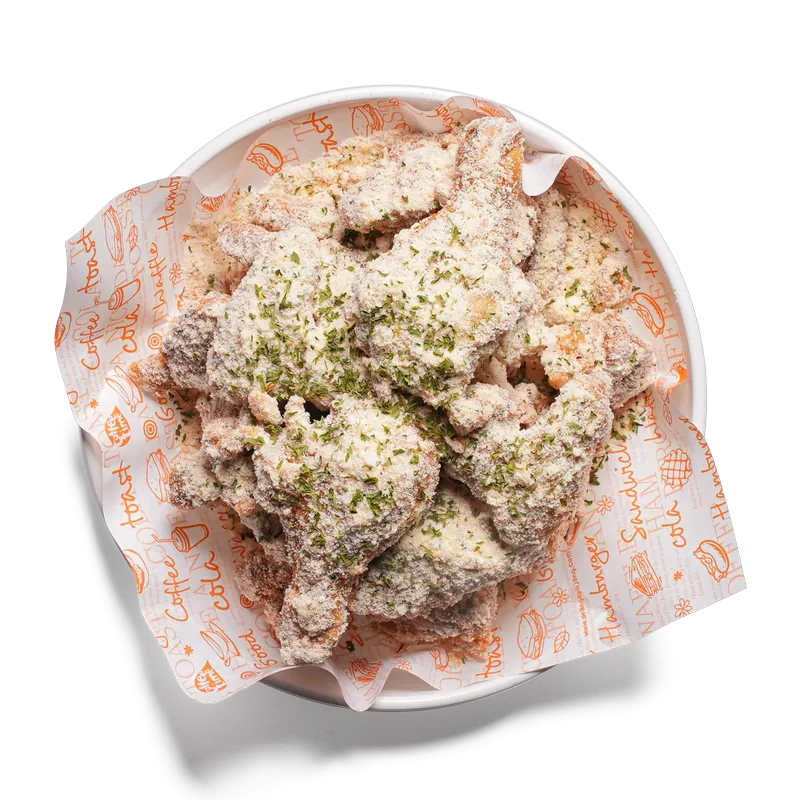
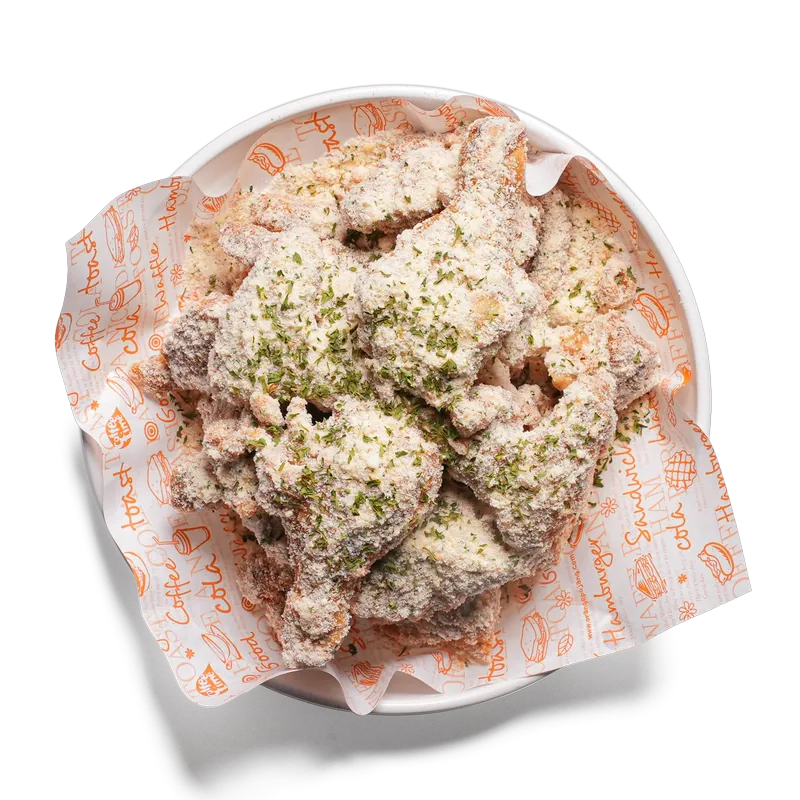
가마보꼬가 아래로 밀리던 문제 — 잔티끌 필터를 비율 기준으로 교체
- 원인: 냄비에 꽂힌 나무젓가락이 행당 2~3px 밖에 안 되는데 고정 임계(3px)를
  간신히 통과해 기준 영역 위쪽이 늘어났고, 그만큼 냄비가 아래로 밀렸다.
- 행/열 픽셀 수가 최대치의 3% 미만이면 제외하도록 변경.
  전체 56건 중 가마보꼬 1건만 바뀌고 나머지는 영향 없음(도마 손잡이 등 보존).
- 젓가락처럼 기준 영역 밖으로 삐져나온 부분이 캔버스를 벗어나지 않도록
  상한도 추가 — 냄비는 정중앙(401/400), 젓가락은 잘리지 않는다.

Changed region(s): [[0.0625, 0.125, 0.9375, 0.9688]]

diff --git a/import_menus.py b/import_menus.py
@@ -102,16 +102,18 @@ def _mass_bbox(alpha, lo=0.02, hi=0.98, min_a=200):
             min(w, int((x1 + 1) * sc)), min(h, int((y1 + 1) * sc)))
 
 
-def _body_bbox(alpha, th=250, min_px=3):
+def _body_bbox(alpha, th=250, min_px=3, min_frac=0.03):
     """음식 본체 bbox — 그림자와 잔티끌을 뺀, 음식 그 자체의 외곽 사각형.
 
     행/열별로 본체 픽셀이 min_px 개 이상인 구간만 본체로 인정한다.
     - 그림자: 알파 임계(th)로 제외. 실측상 음식은 알파 250 이상이 나오고
       바닥 그림자는 250 미만(어두운 무채색)이라 깔끔히 갈린다. 임계를 200 으로
       두면 그림자가 본체로 잡혀 음식이 그만큼 위로 밀려 올라간다.
-    - 누끼 과정에서 남은 몇 픽셀짜리 잔티끌: 개수 조건으로 제외
-      (크림파스타 원본에 접시와 떨어진 티끌이 있어 외곽이 118px 끌려가던 문제)
-    - 도마 손잡이처럼 가늘어도 실제로 이어진 구조는 그대로 보존 → 잘리지 않는다
+    - 누끼 과정에서 남은 잔티끌: 행/열 픽셀 수가 최대치의 min_frac 미만이면 제외.
+      고정 개수(3px)로만 걸렀더니 가마보꼬 위쪽의 2~3px 티끌이 통과해 기준이
+      위로 늘어나고 그만큼 냄비가 아래로 밀렸다 → 비율 기준을 함께 쓴다.
+    - 도마 손잡이처럼 가늘어도 실제로 이어진 구조는 최대치 대비 충분히 두꺼워
+      그대로 보존된다 → 잘리지 않는다
     """
     w, h = alpha.size
     sc = max(1.0, max(w, h) / 300.0)
@@ -134,7 +136,8 @@ def _body_bbox(alpha, th=250, min_px=3):
                 rows[y] += 1
 
     def span(counts):
-        keep = [i for i, c in enumerate(counts) if c >= min_px]
+        limit = max(min_px, max(counts) * min_frac)
+        keep = [i for i, c in enumerate(counts) if c >= limit]
         if not keep:                                 # 전부 얇으면 개수 조건 없이
             keep = [i for i, c in enumerate(counts) if c]
         return keep[0], keep[-1]
@@ -215,13 +218,19 @@ def optimize(src, out_path, max_px, square=False, scale_mult=1.0, drink=False):
             py = round(max_px * 0.93 - bb)
         else:
             # 음식 실루엣 전체 기준 (_body_bbox) — 손잡이·접시 테두리가 잘리지 않는다
-            solid = _body_bbox(img.getchannel("A"))
+            alpha = img.getchannel("A")
+            solid = _body_bbox(alpha)
             sw, sh = solid[2] - solid[0], solid[3] - solid[1]
             if max(sw / sh, sh / sw) >= FLAT_ASPECT:
                 scale = (max_px * CARD_FILL) / max(sw, sh)      # 도마류: 기존 방식 유지
             else:
                 scale = (max_px * CARD_GEO) / math.sqrt(sw * sh)  # 가마보꼬와 같은 크기감
                 scale = min(scale, max_px * CARD_MAX / sw, max_px * CARD_MAX / sh)
+            # 꽂아둔 젓가락처럼 기준 영역 밖으로 삐져나온 부분도 캔버스 안에 들어오게
+            full = alpha.point(lambda v: 255 if v >= 250 else 0).getbbox() or solid
+            cx, cy = (solid[0] + solid[2]) / 2, (solid[1] + solid[3]) / 2
+            half = max(cx - full[0], full[2] - cx, cy - full[1], full[3] - cy)
+            scale = min(scale, max_px * 0.495 / half)
             scale *= scale_mult
             nw, nh = round(w * scale), round(h * scale)
             img = img.resize((nw, nh), Image.LANCZOS)
